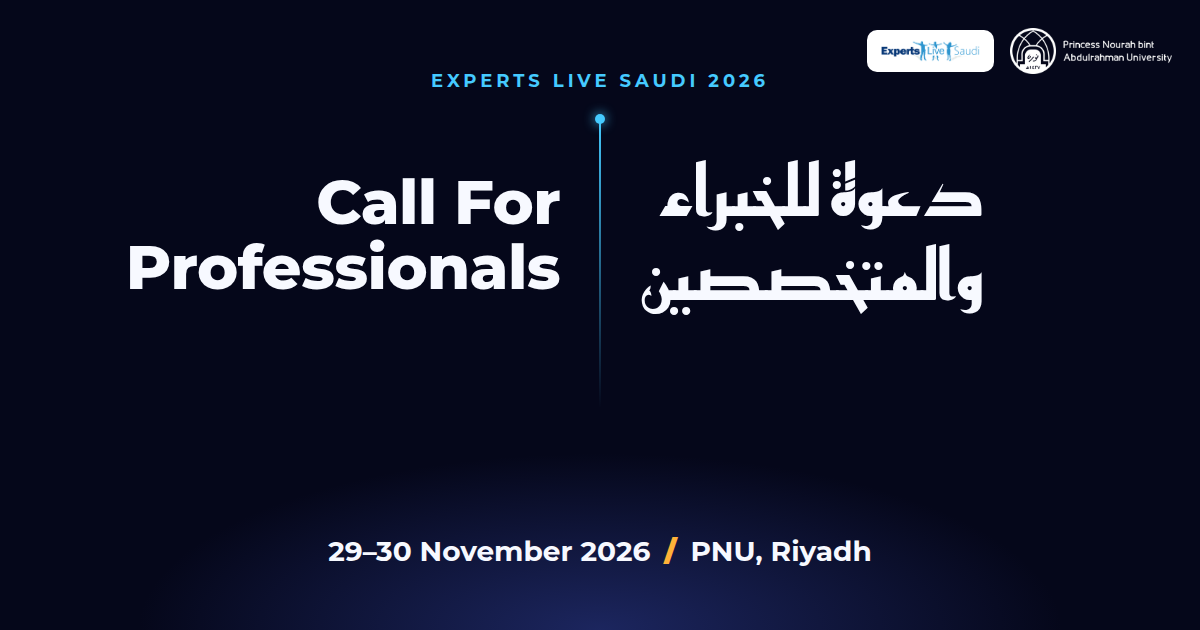
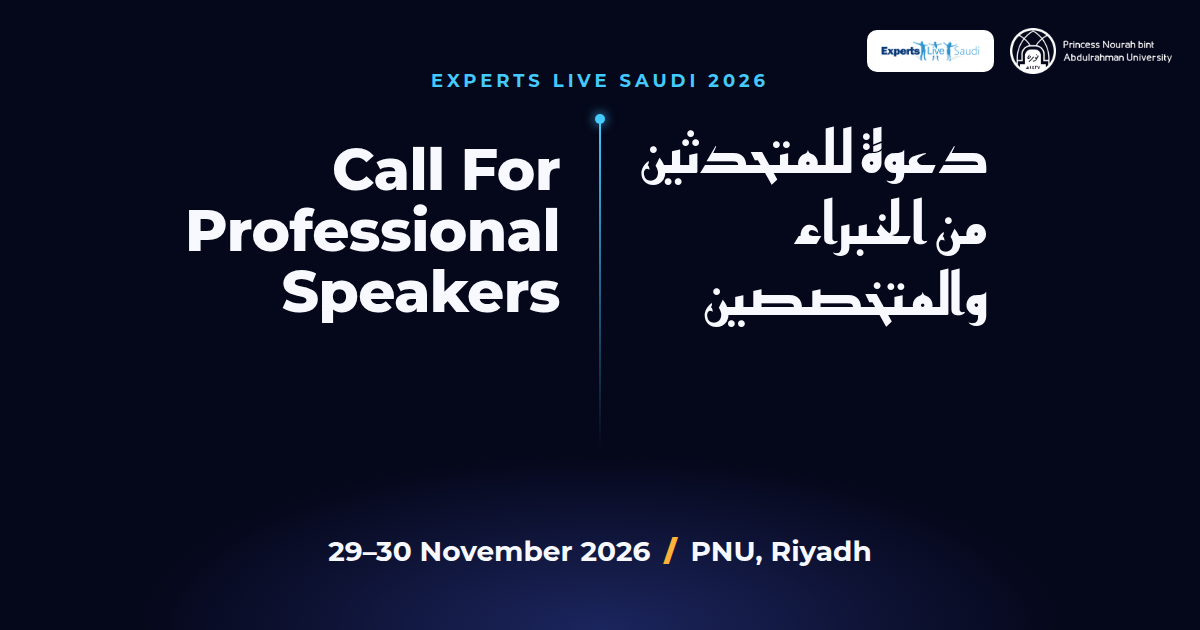
Speaker headline, speaker-focused hero lead, bio label, remove Super Nourah (#2)
- Headline: Call For Professional Speakers / دعوة للمتحدثين من الخبراء والمتخصصين
  (hero, title, meta description, section label, OG image, README)
- Hero lead about the call for speakers instead of startups pitching to investors
- Bio label: Short bio & topics of interest / ...الموضوعات التي تهتم بالمشاركة بها...
- Remove the Super Nourah section, its component, styles, content and type

Changed region(s): [[0.0925, 0.2111, 0.4625, 0.5127], [0.5242, 0.181, 0.8325, 0.5429]]

diff --git a/src/content/ar.ts b/src/content/ar.ts
@@ -4,9 +4,9 @@ const ar: Content = {
   locale: 'ar',
   dir: 'rtl',
   meta: {
-    title: 'دعوة للخبراء والمتخصصين | إكسبيرتس لايف السعودية 2026، 29–30 نوفمبر، الرياض',
+    title: 'دعوة للمتحدثين من الخبراء والمتخصصين | إكسبيرتس لايف السعودية 2026، 29–30 نوفمبر، الرياض',
     description:
-      'دعوة للخبراء والمتخصصين: قدّم للمشاركة متحدثًا في إكسبيرتس لايف السعودية 2026، يومي 29–30 نوفمبر في مركز المؤتمرات بجامعة الأميرة نورة بنت عبدالرحمن، الرياض. شاركنا خبرتك والموضوعات التي يمكنك الحديث عنها.',
+      'دعوة للمتحدثين من الخبراء والمتخصصين: قدّم للمشاركة متحدثًا في إكسبيرتس لايف السعودية 2026، يومي 29–30 نوفمبر في مركز المؤتمرات بجامعة الأميرة نورة بنت عبدالرحمن، الرياض. شاركنا خبرتك والموضوعات التي يمكنك الحديث عنها.',
     ogLocale: 'ar_SA',
   },
   a11y: {
@@ -29,8 +29,8 @@ const ar: Content = {
   ctaApply: 'قدّم كمتحدث',
   hero: {
     kicker: 'إكسبيرتس لايف السعودية 2026',
-    titleLines: ['دعوة للخبراء', 'والمتخصصين'],
-    lead: 'في إكسبيرتس لايف السعودية 2026، تعرض الشركات الناشئة أفكارها أمام المستثمرين.',
+    titleLines: ['دعوة للمتحدثين', 'من الخبراء والمتخصصين'],
+    lead: 'يبحث إكسبيرتس لايف السعودية 2026 عن متحدثين. شارك خبرتك مع أكثر من 1,000 من الحضور في الرياض.',
     // TBC: Arabic tagline not in the official kit
     tagline: 'تعلّم. شارك. قُد.',
     dateLabel: 'الموعد',
@@ -53,7 +53,7 @@ const ar: Content = {
     { value: '8', label: 'قاعات للورش التطبيقية' },
   ],
   apply: {
-    label: 'دعوة للخبراء والمتخصصين',
+    label: 'دعوة للمتحدثين من الخبراء والمتخصصين',
     heading: 'قدّم للمشاركة متحدثًا في إكسبيرتس لايف السعودية 2026',
     intro:
       'عرّفنا بنفسك وبتخصصك وبالموضوعات التي يمكنك المشاركة بها من مجالات المؤتمر. تجد المسارات الستة في أسفل الصفحة.',
@@ -75,7 +75,7 @@ const ar: Content = {
         hint: 'رابط صفحتك العامة في لينكدإن.',
       },
       bio: {
-        label: 'نبذة مختصرة عنك والموضوعات التي يمكنك المشاركة بها من مجالات المؤتمر',
+        label: 'نبذة مختصرة عنك والموضوعات التي تهتم بالمشاركة بها من مجالات المؤتمر',
         hint: 'من \u206650\u2069 إلى \u20661,500\u2069 حرف.',
       },
     },
@@ -100,12 +100,6 @@ const ar: Content = {
       rateLimited: 'محاولات كثيرة من هذا الاتصال. انتظر دقيقة ثم حاول مرة أخرى.',
       server: 'تعذّر حفظ بياناتك. حاول مرة أخرى أو راسلنا على hany@expertslive.sa.',
     },
-  },
-  superNourah: {
-    time: '10:30',
-    when: 'اليوم الأول، القاعة الحمراء (Red Hall)',
-    heading: 'الكشف عن سوبر نورة مباشرة',
-    body: 'تكشف جامعة الأميرة نورة بنت عبدالرحمن عن «سوبر نورة»، أول حاسوب فائق للأبحاث في المنطقة، مباشرة على مسرح إكسبيرتس لايف السعودية.',
   },
   programme: {
     heading: 'ستة مسارات عن الاقتصاد الرقمي',

diff --git a/src/content/en.ts b/src/content/en.ts
@@ -4,9 +4,9 @@ const en: Content = {
   locale: 'en',
   dir: 'ltr',
   meta: {
-    title: 'Call For Professionals | Experts Live Saudi 2026, 29–30 Nov, Riyadh',
+    title: 'Call For Professional Speakers | Experts Live Saudi 2026, 29–30 Nov, Riyadh',
     description:
-      'Call For Professionals: apply to speak at Experts Live Saudi 2026, 29–30 November at PNU Conference & Convention Center, Riyadh. Share your expertise and the conference topics you can speak about.',
+      'Call For Professional Speakers: apply to speak at Experts Live Saudi 2026, 29–30 November at PNU Conference & Convention Center, Riyadh. Share your expertise and the conference topics you can speak about.',
     ogLocale: 'en_US',
   },
   a11y: {
@@ -29,8 +29,8 @@ const en: Content = {
   ctaApply: 'Apply to speak',
   hero: {
     kicker: 'Experts Live Saudi 2026',
-    titleLines: ['Call For', 'Professionals'],
-    lead: 'At Experts Live Saudi 2026, startups pitch to investors.',
+    titleLines: ['Call For', 'Professional Speakers'],
+    lead: 'Experts Live Saudi 2026 is looking for speakers. Share your expertise with 1,000+ attendees in Riyadh.',
     tagline: 'Learn. Share. Lead.',
     dateLabel: 'When',
     date: '29–30 November 2026',
@@ -52,7 +52,7 @@ const en: Content = {
     { value: '8', label: 'hands-on lab rooms' },
   ],
   apply: {
-    label: 'Call For Professionals',
+    label: 'Call For Professional Speakers',
     heading: 'Apply to speak at Experts Live Saudi 2026',
     intro:
       'Tell us who you are, what you specialise in and which of the conference topics you can speak about. The six tracks are listed further down the page.',
@@ -78,8 +78,8 @@ const en: Content = {
         hint: 'The link to your public LinkedIn profile.',
       },
       bio: {
-        label: 'Short bio & topics',
-        hint: 'A short bio and the conference topics you can speak about, 50 to 1,500 characters.',
+        label: 'Short bio & topics of interest',
+        hint: 'A short bio and the conference topics you’re interested in speaking about, 50 to 1,500 characters.',
       },
     },
     counter: {
@@ -103,12 +103,6 @@ const en: Content = {
       rateLimited: 'Too many attempts from this connection. Wait a minute, then try again.',
       server: 'Couldn’t save your details. Try again, or email hany@expertslive.sa.',
     },
-  },
-  superNourah: {
-    time: '10:30',
-    when: 'Day 1, Red Hall',
-    heading: 'Super Nourah, unveiled live',
-    body: 'Princess Nourah bint Abdulrahman University unveils Super Nourah, the region’s first research supercomputer, live on the Experts Live Saudi stage.',
   },
   programme: {
     heading: 'Six tracks on the digital economy',

diff --git a/src/app/[locale]/page.tsx b/src/app/[locale]/page.tsx
@@ -5,7 +5,6 @@ import { Header } from '@/components/Header';
 import { Hero } from '@/components/Hero';
 import { Facts } from '@/components/Facts';
 import { Apply } from '@/components/Apply';
-import { SuperNourah } from '@/components/SuperNourah';
 import { Programme } from '@/components/Programme';
 import { Partners } from '@/components/Partners';
 import { PartnerCta } from '@/components/PartnerCta';
@@ -63,7 +62,6 @@ export default async function Page({ params }: PageProps<'/[locale]'>) {
         <Hero c={c} en={getContent('en')} ar={getContent('ar')} />
         <Facts c={c} />
         <Apply c={c} />
-        <SuperNourah c={c} />
         <Programme c={c} />
         {/* Speakers slot: the section is removed for now and will be replaced with new content here (src/components/Speakers.tsx kept for reference). */}
         <Partners c={c} />

diff --git a/src/content/types.ts b/src/content/types.ts
@@ -112,12 +112,6 @@ export interface Content {
       server: string;
     };
   };
-  superNourah: {
-    time: string;
-    when: string;
-    heading: string;
-    body: string;
-  };
   programme: {
     heading: string;
     intro: string;

diff --git a/README.md b/README.md
@@ -1,4 +1,4 @@
-# Experts Live Saudi 2026 — Call For Professionals
+# Experts Live Saudi 2026 — Call For Professional Speakers
 
 Bilingual (English / Arabic) landing page for **Experts Live Saudi 2026**, 29–30 November 2026, PNU Conference & Convention Center, Riyadh. A call for speakers: one "Apply to speak" form, stored in PostgreSQL. Built from the Startups Demo Day landing page (same design system).
 
